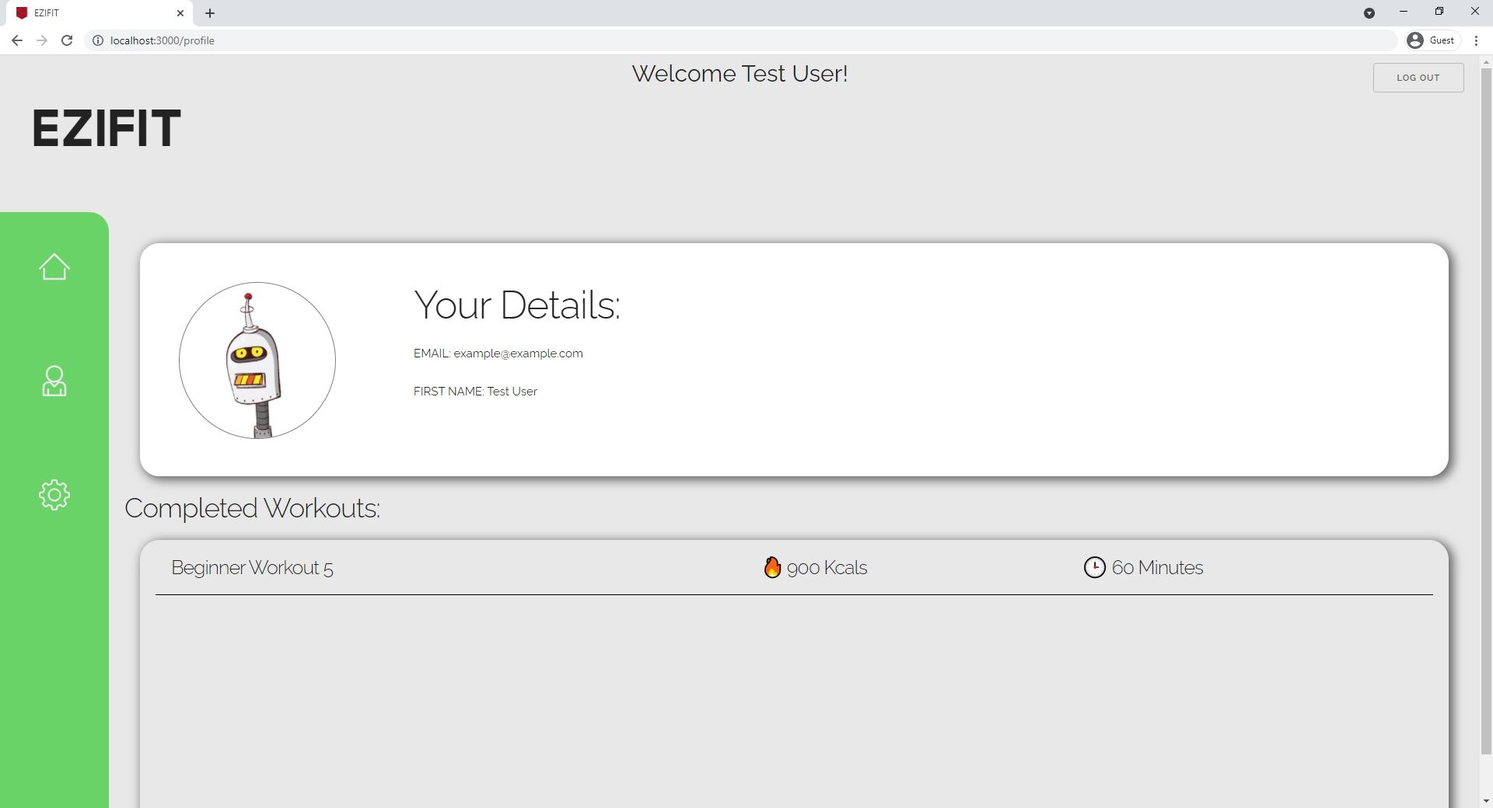
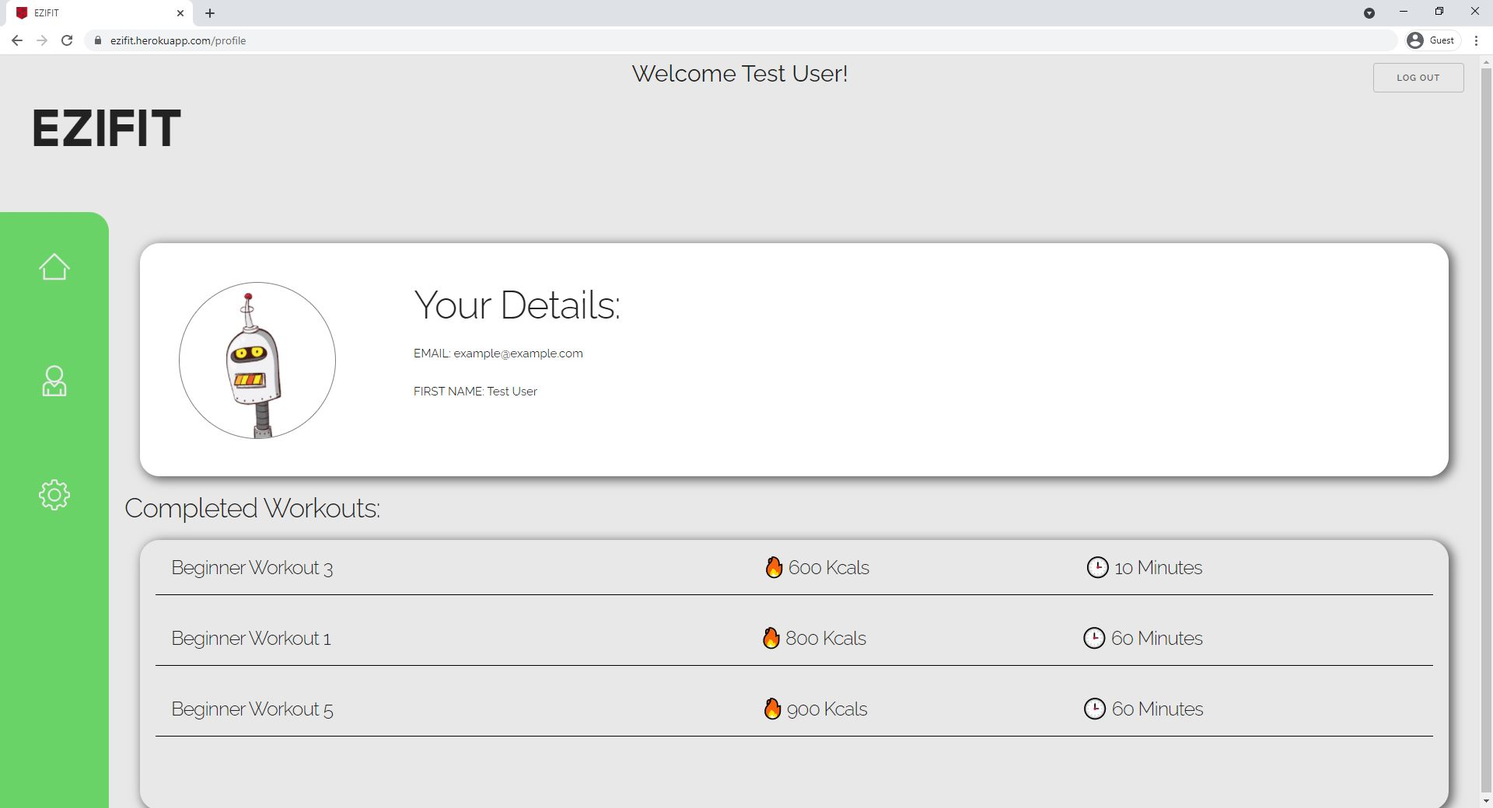
Proof reading READMEs, new screenshots

diff --git a/README.md b/README.md
@@ -7,13 +7,13 @@
 ## Lachlan Terrey
 
 # Deployed application:
-https://powerful-scrubland-03851.herokuapp.com/
+https://ezifit.herokuapp.com/
 
 # App Description:
-EziFit provides you the client with the connection to your trainer when not actually doing a workout with them. It records your workouts and will provide you new workouts to complete. You can also request a new work. Your trainer is able to see the workouts you have completed to allow them to watch you progress.
+EziFit provides you the client with the connection to your trainer when not actually doing a workout with them. It records your workouts and will provide you new workouts to complete. You can also request a new workout. Your trainer is able to see the workouts you have completed to allow them to watch you progress.
 EziFit can show you all your workouts completed in one place and provide you with information like Calories Burnt during training. EziFit can also help you with workout progression.
 
-# Outline:
+# Proposed Application Outline:
 The application we propose to build will be for use by a personal trainer and their clients for training in the gym environment. The application is mostly form based providing training plans, client profiles, and trainer profiles. If the minimal viable product was met, an Apex charts API in conjunction with mongodb could be included to allow for the graphing of progress. Optionally it could be used by multiple personal trainers and multiple clients.  
 The app will have progression built in, each session you can choose whether or not to accept the progression. This can be implemented using buttons, and use JavaScript to offer a pre-determined progression.  
 The target users are clients who require a trainer to create workouts for them. The workouts, initially pre-made, in theory are uploaded by trainers for their clients to follow, and provide a degree of self-regulation through the progression functionalities the client can control. The trainers are a secondary target of the application. Although they don't have login functionalities, they could upload workouts to MongoDB to manage what their clients are doing. This can move away from less organised pen and paper, or spreadsheet based workout management.  
@@ -23,70 +23,70 @@ The data is stored in MongoDB. This allows the data to be persistent even if the
 None.
 
 # Minimal viable product:
-The minimal viable product has been mostly achieved but with some variation from the project proposal. The application allows a client to login. Once logged in, they are able to view a workout to complete. The results can't be recorded as initially proposed. Instead, a progress functionality has been implemented, which allows an incremental change to occur to the repetitions or time of an exercise. This allows an exercise to be made harder if it is too easy for the client, providing a degree of self-regulation. This functionality had been furthered by enabling clients to "complete" a workout by pressing a button. This stores the workout completed, and requests a new workout that has a date to be completed in 1 week's time, which is a further expansion on the project. The user can also see their details that is stored by the application, and can see a history of their completed workouts which was not initially proposed. The user can see some basic details about the trainer that has been assigned to them. This is all accessible from the navigation bar, where they can also log out of the application.  
+The minimal viable product has been mostly achieved but with some variation from the project proposal. The application allows a client to login. Once logged in, they are able to view a workout to complete. The progression functionality has not been implemented as initially planned. Instead, each exercise can be ticked off, indicating that exercise has been completed in the workout. This functionality had been furthered by enabling clients to "complete" a workout by pressing a completion button. This stores the workout completed, and can show basic information resulting from that workout in the clients profile page, creating a history of completed workouts. The user can also see their details that is stored by the application. This is all accessible from the side navigation bar, and they can also log out of the application on the top navigation bar. No information regarding their trainer has been incorporated as initially planned.   
 ## MileStones:
 ### Week 9:
 We were able to create the figma mockup of a dashboard representing the homepage of application. Although the exact design was not used, the dashboard concept was maintained. The Github was initiallised along with adding the basic elements for the project such as an Express server and a basic React application. This was done using a pre-existing project to build off something rather then start from complete scratch.  
 The initial JSON structure was created along with some sample data for basic testing. This structure changed over the weeks, but many of the fields and their data types were consistent throughout development.  
-The server API was created (located in ./server/app.js) that contains all of the HTTP requests and responses being utilised for the application.  
+The initial server API was created (located in ./server/app.js) that contains all of the HTTP requests and responses being utilised for the application.  
+The app capabilities we wanted to include were discussed and started, though this was not an assured list and changed over the weeks.
 A default README is created by the React application, though this was edited to contain the group members names and some basic details.  
 ### Week 10:
-The most of the components used for the frontend were created. These were developed to the point of being functional though many required future changes and had no major CSS applied.  
-Skeleton UI was installed as a framework in anticipation of the applications design to be worked on. A little bit of cleaning for the home page was done, but this was largely untouched as the application was not far enough developed for design to be of a concern.  
-The decision and implemention of a database was planned for this week but wasn't completely achieved. There was debate over the use of MongoDB and if it would un-necessary for a gym trainer's use, but the decision was made as it is needed for persistent data. This was done at between Week 10 and Week 11.
+The most of the components used for the frontend were started. These were developed to the point of being functional though many required future changes and had no major CSS applied.  
+Skeleton UI was installed as a framework in anticipation of the applications design to be worked on. A little bit of cleaning for the home page was done, but this was largely untouched as the application was not far enough developed for design to be a concern.  
+The decision and implemention of a database was planned for this week but wasn't completely achieved. There was debate over the use of MongoDB and if it would un-necessary for a gym trainer's use, but the decision was made as it is needed for persistent data. This was done at some point between Week 10 and Week 11.
 ### Week 11:
-The milestones set were mostly not met. Testing wasn't able to be done as development isn't up to that stage yet. User roles was not achieved as the decision was made to abandon that idea. We did not have enough time to fully implement this functionality, and we want to focus on a better quality minimum viable product rather then one with more quantity that sacrifices on quality. Authentication was completed over week 10 and 11, Auth0 is now used instead of JWT. This enables user's to use their personal emails to sign into the application, a functionality that is common in other real world applications.  
+The milestones set were mostly not met. Testing wasn't able to be done as development isn't up to that stage yet. User roles was not achieved as the decision was made to abandon that idea. We did not have enough time to fully implement this functionality, and we want to focus on a better quality minimum viable product rather then one with more quantity that sacrifices on quality. Authentication was completed over week 10 and 11, Auth0 is now used instead of JWT. This enables users to use their personal emails to sign into the application, a functionality that is common in other real world applications.  
 Tasks not in the milestones though were accomplished. The design of the application was worked on, providing a nicer looking login screen, a proof of concept logo supporting gym branding, a redesigned navigation bar, and an overhauled design of the workout and client pages. The client page was changed to display the previous workouts a user has completed, this was made possible by enabling a workout to be marked as completed. MongoDB was mostly incorporated into the application, enabling data to be sourced from a database rather than hardcoded in a JSON object. An initial production build was also created, the routes used by the API were updated and the remaining development can focus on the production build's requirements.  
 ### Week 12:
-The milestones for this week were partially not met, though this is to be expected as the projects development has changed from when the milestones were made. No testing has been done, so the final test can't be achieved. The UI fit and finish was partially accomplished. The rest of the application has been updated to follow a similar design as the one started in week 11. So although not finished, it has progressed. The documentation was no completed. It is an ongoing process that will require the project to be completed before items like the photos and photo descriptions can be detailed. The documentation though is an ongoing process which did see updates during this week.  
+The milestones for this week were partially not met, though this is to be expected as the projects development has changed from when the milestones were made. No testing has been done, so the final test can't be achieved. The UI fit and finish was partially accomplished. The rest of the application has been updated to follow a similar design as the one started in week 11. So although not finished, it has progressed. The documentation was not completed. It is an ongoing process that will require the project to be completed before items like the photos and photo descriptions can be detailed. The documentation though is an ongoing process which did see updates during this week.  
 Other tasks were started this week, including deploying the application to enable development to be targetted towards a deployed version. This uncovered multiple errors that have started to be addressed, especially relating to the URLs being used in requests. The database had further improvement and is closer to being fully functional. A decision was made to change what would be the "home" screen once the user logs in and direct the user straight to their profile page as the original "home" page didn't contribute enough to the user experience. The code base also experienced major refactoring and improvements, removing unnecessary code and adding comments for developers.
 
 # Source code guide:
 ## Front end:
 Within 'src' is all the frontend code and components. App.js is the application running within index.js.  
 All of the components for the frontend are within the 'components' folder, these are used to produce the outputs for what a user should see based on the page they are on and if they are logged in or not.  
-The 'services' folder contains the functions that utilise axios to send requests to the API. These are called by, and respond to, files and functions within the 'components' folder.  
+The 'components' folder and 'context' both contain some functions that utilise axios to send requests to the API. These are called by, and respond to, files and functions within the 'components' folder.  
 The 'styles' folder contains some of the CSS file for the App.js file.  
-The index.js file renders what has been developed using React.  
+The index.js file renders what has been developed using React.
+Authorisation settings are maintained in the "Auth_config.json" file in the "src" folder, and the authorisation component is in the "components" folder.  
 ## Back end:
-Within 'server' is the code for testing, the API and server, models, and authrorisation necessities. The server, API, and authentication files are within the 'server' file itself.  
+Within 'server' is the code for testing, the API, server and models. The server and API files are within the 'server' folder itself.  
 The 'models' folder contains the models used to define the data stored in MongoDB. This is used for any data received from MongoDB such as the clients, the trainers, and the workouts.  
-The 'Requests' folder contains REST requests that can be used to check if requests are functioning as expected.  
-The 'tests' folder contains the API testing required to ensure the requests are functioning as expected, and the correct response or outcome is achieved.  
-The 'utils' folder contains the configuration file for the project, this imports the MongoDB address and PORT number from the environment so it be used in the server.  
+The 'tests' folder contains the API testing required to ensure the requests are functioning as expected, and the correct response or outcome is achieved.   
 The 'routes' contains the routes and requests used by different components of the application. These contain some processing for the data before being sent to received from the database.  
-Files such as the README, packages.json, the environment, gitignore, and Proclife are all in the root directory of the project as they are necessary for the project to run and operate entirely.
+## Other:
+Files such as the README, packages.json, the environment, gitignore, and Proclife are all in the root directory of the project as they are necessary for the project to run and operate entirely. The screenshots and respective README is in the "SCREENSHOTS" folder.
 
 # Next steps:
 The next steps for this application would build upon what has already been started. The most important is testing. Time constraints has meant testing of neither the front or back end has been conducted. This must be the first step for future developers, as building upon a faulty application would create future set backs, and ensuring any bugs exposing user data must be addressed before a public release.
-Next, developers should allow users to record exactly what they have done in each workout. This would include typing in how many sets, repetitions, or time they completed for each exercise. This could also be achieved using check boxes. This can enable more fine tuned control of the user's workout plan, and could lead to further functionalities such as displaying what a user did last time they did that exercise, acting as a target to reach.  
-The next development would be the inclusion of trainer accounts. These accounts can give the trainers control over who their clients are, what workouts they should do, and provide their clients with further details about them such as contact details. A further expansion on this would be to include the ability to create a workout. The trainer could fill out a form, select the client it is for, and potentially have access to a list of the clients completed workouts in order to custom make a workout for a specific client.  
-The next step is to include better management of unexpected events. This would include adding more checks of what users have data already stored about them, if a user has any future workouts, checks if their trainer is still training them etc. There are many scenarios in the real world that would cause problems for the application. This would similar to error handling, but more geared towards anomaly handling and dealing with situation that are possible but are not "errors".  
+Next, developers should allow users to record exactly what they have done in each workout. This would include typing in how many sets, repetitions, or time they completed for each exercise. This can enable more fine tuned control of the user's workout plan, and could lead to further functionalities such as displaying what a user did last time they did that exercise, acting as a target to reach.  
+The next development would be the inclusion of trainer accounts. These accounts can give the trainers control over who their clients are, what workouts they should do, and provide their clients with further details about them such as contact details. A further expansion on this would be to include the ability to create a workout. The trainer could fill out a form, select the client it is for, and potentially have access to a list of the client's completed workouts in order to custom make a workout for a specific client.  
+The next step is to include better management of unexpected events. This would include adding more checks of what users have data already stored about them, if a user has any future workouts, checks if their trainer is still training them etc. There are many scenarios in the real world that would cause problems for the application. This would be similar to error handling, but more geared towards anomaly handling and dealing with situation that are possible but are not "errors".  
 The final step is considering a relational database. MongoDB is adequate for the purpose of creating a functional application, but a relational database would make establihsing the connections between clients, trainers, and workouts much easier. An example relational database could be MySQL.
 
 # Team roles and contributions:
 
 ## Eric Korhonen  
-## Tynnan Conquit
+## Tynnan Conquit 45898723
 My main role was generally on the frontend and developer documentation aspects of the project.
 I made the initial data structure though it largely changed over time, many variables though remained. I created the basic components for the client and trainer profiles, these were changed over time and the trainer profile removed, but maintained multiple elements I incorporated such as the basic structure each workout would contain and how the data was organised on the page for a user to read. I started the workout component but got stuck and Lachlan took over to help, though I helped establish what the component would contain. I started on the styling though most of it was overhauled, but some elements remained such as the horizontal display for a workout on the workout page. I helped add comments throughout the code to increase readability. I contributed the README and DEPLOYMENT md files, and the screenshots folder and README file to describe the screenshots. Like each member, I also did small batches of refactoring throughout development.
 ## Ali Kazim  
 ## Lachlan Terrey
 
-## Project management and team communication:
-The bulk of the communication was done through Slack. This enabled communication to happen much quicker and more in a more casual manner than using the discussion forum provided initially. Zoom was also utilised in order to discuss what the next steps of the project were and organise what was happening for each Weeks Sprint Report.
-
+# Project management and team communication:
+The bulk of the communication was done through Slack. This enabled communication to happen much quicker and more in a more casual manner than using the discussion forum provided initially. Zoom was also utilised in order to discuss what the next steps of the project were and organise what was happening for each Weeks Sprint Report.  
 Github was the primary tool used to share code and keep track of the completed sections. Commits were mostly used as expected, highlighting what has been completed, though it was also used to share code that a member was stuck on, or refactor and clean code. The main branch was the only branch used. This was due to members being generally unsure of how to use Github to it's full extent. Members made a point of messaging in Slack each time they pushed their work so other members could be aware that merge problems may occur if they also try to push, and as a reminder to pull from Github the next time they work on the project.
 
 # Problems with the project:
 ## Lack of testing.
-The first major problem is the lack of testing. This is addressed on in the section for next steps for developers. There is likely errors throughout the code that is a natural result of the time limit. Testing should always be done before deploying an application, this has not happened though due to the time constraints of the project. Testing could have also happened alongside development, but the agile nature of the development and the project changing majorly multiple times would have made this difficult and consume more of the already limited time.
+The first major problem is the lack of testing. This is addressed in the section for next steps for developers. There is likely errors throughout the code that is a natural result of the time limit. Testing should always be done before deploying an application, this has not happened though due to the time constraints of the project. Testing could have also happened alongside development, but the agile nature of the development and the project changing majorly multiple times would have made this difficult and consume more of the already limited time.
 
 ## Inability to handle new users.
-The second problem is the inability to handle new users. This problem is worked around by requesting users to speak to a trainer to create an account. Ideally, they should be able to create an account on the app and the trainers can select what clients are theirs. This should be added as currently the app serves no purpose to unregistered clients, and provides little in terms of details for them to go and get registered. This may also include a bit of information regarding how user can actually get into contact with trainers, the gym etc.
+The second problem is the inability to handle new users. This problem is worked around by requesting users to speak to a trainer to create an account. Ideally, they should be able to create an account on the app and the trainers can select what clients are theirs. This should be added, as currently the app serves no purpose to unregistered clients, and provides little in terms of details for them to go and get registered. This may also include a bit of information regarding how user can actually get into contact with trainers, the gym etc.
 
 ## Trainer account
-Currently there is no ability for a trainer to log in and have their own specified content or functionalities. This should be included as the app requires clients to complete workouts made by these trainers. Currently the trainer must log into MongoDB and manually enter the workout for a client. This is inefficient. Trainers, when logged in, may have mostly the same features, but the main difference is instead of completing a workout, they can design one for a client. An additional route should also be added to allow trainers to select what clients are theirs.
+Currently there is no ability for a trainer to log in and have their own specified content or functionalities. This should be included as the app requires clients to complete workouts made by these trainers. Currently the trainer must log into MongoDB and manually enter the workout for a client. This is inefficient. Trainers, when logged in, may have mostly the same features, but the main difference is instead of completing a workout, they can design one for a client. An additional route should also be added to allow trainers to select what clients are theirs, and add a component for a client to view their trainers information, or possibly get in contact with them.
 
 ## Scalability and cost.
-These two problems will be correlated. As the application expands and more users are added, using MongoDB will become difficult to effectively manage what clients are assigned to what trainers. Using a relational database is the best solution for this, as manually assigning these identifiers is ineffective as more users are added, and requires additional overhead and processing. This would create a direct relationship between client and trainer, linking them in the database. Similar to this, Heroku will become a less viable option as the application expands. Heroku already can be a slow when handling requests if the application has not been used in 30 minutes. Further, Heroku free tier only allows for a maximum of 550 dyno hours a month. The more users using the application, the more the dyno hours are used, and eventually the business will require upgrading, at a cost, to keep the application deployed. This may require over hosting services to be compared for price and performance.
+These two problems are correlated. As the application expands and more users are added, using MongoDB will become difficult to effectively manage what clients are assigned to what trainers. Using a relational database is the best solution for this, as manually assigning these identifiers is ineffective as more users are added, and requires additional overhead and processing. This would create a direct relationship between client and trainer, linking them in the database. Similar to this, Heroku will become a less viable option as the application expands. Heroku already can be a slow when handling requests if the application has not been used in 30 minutes. Further, Heroku free tier only allows for a maximum of 550 dyno hours a month. The more users using the application, the more the dyno hours are used, and eventually the business will require upgrading, at a cost, to keep the application deployed. This may require other hosting services to be compared for price and performance.

diff --git a/DEPLOYMENT.md b/DEPLOYMENT.md
@@ -1,15 +1,15 @@
 # Deployed Application:
-https://powerful-scrubland-03851.herokuapp.com/
+https://ezifit.herokuapp.com/
 
 # Developer information:
-This project is built as a React application, axios is used to send and receive requests to the API running on an express server, and MongoDB is used as the database. A skeleton framework is also used.
-To start future development, pull the project from Github or access a copy of the source code. Run 'npm install' in the root directory, this will install the required packages as specified in "package.json". To run a development version of the application, use 'npm start' to run the application and frontend, then use 'npm run server' to start the server and connect to MongoDB. Nodemon has been installed so changes in the code will be automatically reflected in the running application.
-The project has been deployed using Heroku. Heroku only allows one application to be deployed at a time on the free tier of the service. To deploy the application to Heroku, first run 'npm run build' to create the production build of the application, and 'got add .' and 'git commit -m""' to push to Github the latest project changes. Log in to Heroku in the terminal using 'heroku login'. Run 'heroku create' to create a Heroku application if it is the first time. Run 'git push heroku master' if the application already exists in Heroku.
+This project is built as a React application, axios is used to send and receive requests to the API running on an express server, and MongoDB is used as the database. A skeleton framework is also used.  
+To start future development, pull the project from Github or access a copy of the source code. Run 'npm install' in the root directory, this will install the required packages as specified in "package.json". To run a development version of the application, use 'npm start' to run the application and frontend, then use 'npm run server' to start the server and connect to MongoDB. Nodemon has been installed so changes in the code will be automatically reflected in the running application.  
+The project has been deployed using Heroku. Heroku only allows one application to be deployed at a time on the free tier of the service. To deploy the application to Heroku, first run 'npm run build' to create the production build of the application, and 'git add .' and 'git commit -m""' to push to Github the latest application changes. Log in to Heroku in the terminal using 'heroku login'. Run 'heroku create' once logged in to create a Heroku application if it is the first time. Run 'git push heroku master' if the application already exists in Heroku.
 
 ## Test account details:
-Email: example@example.com
-Password: Pak12345!
-These credentials can be used to log into the test account used for development. This account does not contain any personally identifying information. This account can be used to test how the application works. Use these details in Auth0 after clicking "login" on the login page.
+Email: example@example.com  
+Password: Pak12345!  
+These credentials can be used to log into the test client account used for development. This account does not contain any personally identifying information. This account can be used to test how the application works. Use these details in Auth0 after clicking "login" on the login page.
 
 # Continuous integration:
-No continuous or automatic integration was used. All code was pushed directly to the main branch of the Github repository. This was done due to team members being unfamiliar with effective use of Github. When someone wants to push an edited file, they would send a message on Slack informing the other team members what they have changed and when they have pushed the code. This informs others to pull from the repository before pushing their local copy, or before starting new changes, in order to have the most up-to-date copy of the application. This is admittedly a less effective method of development compared to using other branches for different application functionalities. This is a manual method and has proven prone to merging issues, but was adequate for a project of this size when enough communication occurs.
+No continuous or automatic integration was used. All code was pushed directly to the main branch of the Github repository. This was done due to team members being unfamiliar with more difficult but more effective use of Github. When someone wants to push an edited file, they would send a message on Slack informing the other team members what they have changed and when they have pushed the code. This informs others to pull from the repository before pushing their local copy, or before starting new changes, in order to have the most up-to-date copy of the application. This is admittedly a less effective method of development compared to using other branches for developing different application functionalities. This is a manual method and has proven prone to merging issues, but was adequate for a project of this size when enough communication occurs.

diff --git a/SCREENSHOTS/README.md b/SCREENSHOTS/README.md
@@ -22,10 +22,14 @@ This shows how the "completed" button will automatically change colour to green 
 # workoutMidwayComplete
 This shows how a user can click the box next to an exercise to indicate they have completed it. This also shows the exercises use different styles when the box next to them is clicked. The tick mark and line through the text indicates they do not need to do that exercise any more in the workout.
 
+# landingPageNoWorkout
+This shows what the user will see if they log in but don't have a workout to complete. A basic message is shown informing the client that there are no more workouts in the database for them to complete.
+
 # clientProfile
 This page contains the basic details of the logged in user and their completed workouts.  
 In the white box, the users details are displayed. This includes their name, email, and a profile picture.  
 The grey box with the title "Completed Workouts" shows the completed workouts a user has done. This will display some basic information from the workout such as the name of it, how many calories they burned (proof of concept), and how long the workout took (based on the time the workout should take as displayed on the landing page).
 
 # landingPageProfileHover, landingPageHomeDashboardHover, landingPageSettingsHover
-These photos show some of the finer details of the page. These show that when the user hovers over these links, the little box containing the title of the page has also been customised. These show "Profile" when hovering over the user profile link, "Settings" when hovering over the settings link, and "Dashboard" when hovering over the landing page link. Although these details are not critical to the functionality of the application, these add to the professionalism and attention to detail that would be expected by a professional application.
+These photos show some of the finer details of the page. These show that when the user hovers over these links, the little box containing the title of the page has also been customised. These show "Profile" when hovering over the user profile link, "Settings" when hovering over the settings link, and "Dashboard" when hovering over the landing page link. Although these details are not critical to the functionality of the application, these add to the professionalism and attention to detail that would be expected by a professional application.  
+These also show how the URL has been changed to incorporate the EziFit name and changed the title of the browser tab.
